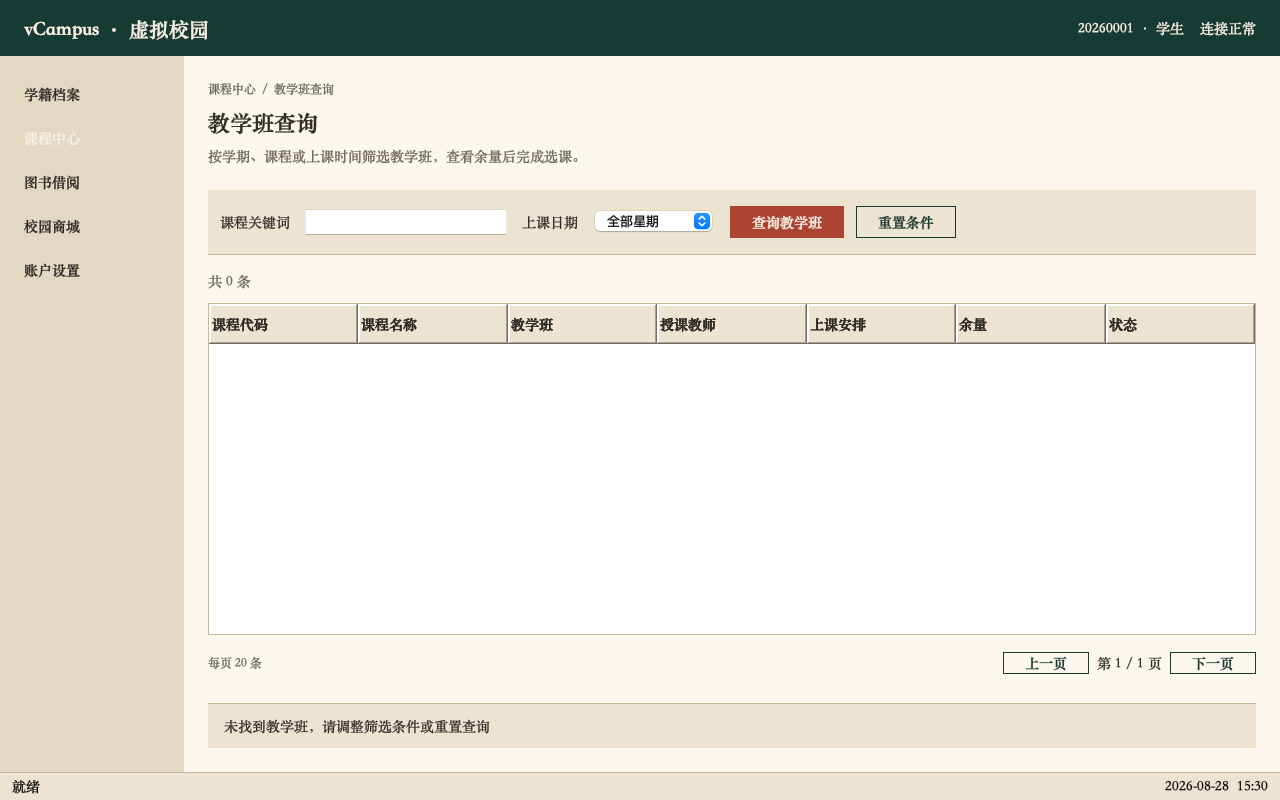
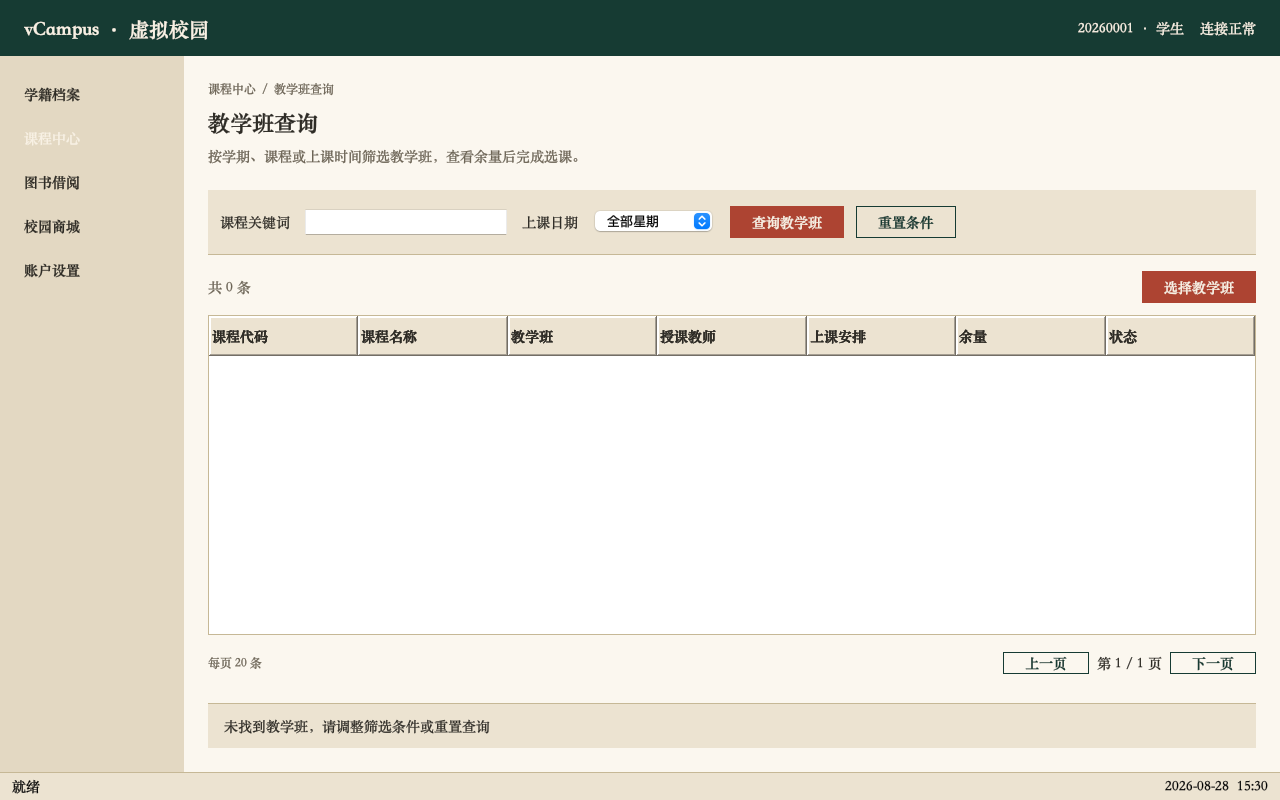
feat(course): connect enrollment UI to live client commands

Changed region(s): [[0.1562, 0.3125, 1.0, 0.4688]]

diff --git a/vcampus-client/src/main/java/edu/seu/vcampus/client/course/ui/OfferingSearchPanel.java b/vcampus-client/src/main/java/edu/seu/vcampus/client/course/ui/OfferingSearchPanel.java
@@ -6,6 +6,7 @@ import edu.seu.vcampus.client.core.ui.theme.UiSpacing;
 import edu.seu.vcampus.client.core.ui.theme.UiTypography;
 import edu.seu.vcampus.common.course.OfferingSearchQuery;
 import edu.seu.vcampus.common.course.OfferingSummary;
+import edu.seu.vcampus.common.course.EnrollCommand;
 import edu.seu.vcampus.client.course.service.CourseClientException;
 
 import javax.swing.BorderFactory;
@@ -24,6 +25,8 @@ import java.awt.BorderLayout;
 import java.awt.Dimension;
 import java.awt.FlowLayout;
 import java.util.concurrent.atomic.AtomicLong;
+import java.util.ArrayList;
+import java.util.List;
 
 /** Query-list page for available teaching offerings. */
 public final class OfferingSearchPanel extends AbstractCoursePanel {
@@ -35,6 +38,7 @@ public final class OfferingSearchPanel extends AbstractCoursePanel {
         public boolean isCellEditable(int row, int column) { return false; }
     };
     private final JTable results = table(new Object[0][0], new Object[0]);
+    private final List<OfferingSummary> visibleOfferings = new ArrayList<>();
     private final AtomicLong requestSequence = new AtomicLong();
 
     public OfferingSearchPanel(CourseUiGateway gateway) {
@@ -49,7 +53,13 @@ public final class OfferingSearchPanel extends AbstractCoursePanel {
         body.add(filters(), BorderLayout.NORTH);
         JPanel listing = new JPanel(new BorderLayout(0, UiSpacing.MD));
         listing.setOpaque(false);
-        listing.add(summary, BorderLayout.NORTH);
+        JPanel resultHeader = new JPanel(new BorderLayout());
+        resultHeader.setOpaque(false);
+        resultHeader.add(summary, BorderLayout.WEST);
+        JButton enroll = primary("选择教学班");
+        enroll.addActionListener(event -> enrollSelected(enroll));
+        resultHeader.add(enroll, BorderLayout.EAST);
+        listing.add(resultHeader, BorderLayout.NORTH);
         JScrollPane scroll = new JScrollPane(results);
         scroll.setBorder(BorderFactory.createLineBorder(UiColors.BORDER_DEFAULT));
         listing.add(scroll, BorderLayout.CENTER);
@@ -100,6 +110,7 @@ public final class OfferingSearchPanel extends AbstractCoursePanel {
                 .whenComplete((page, error) -> SwingUtilities.invokeLater(() -> {
                     if (request != requestSequence.get()) return;
                     model.setRowCount(0);
+                    visibleOfferings.clear();
                     if (error != null) {
                         Throwable cause = error;
                         while (cause instanceof java.util.concurrent.CompletionException && cause.getCause() != null) cause = cause.getCause();
@@ -116,7 +127,8 @@ public final class OfferingSearchPanel extends AbstractCoursePanel {
                         return;
                     }
                     for (OfferingSummary row : page.items()) {
-                        String time = row.schedules().isEmpty() ? "待安排" : row.schedules().getFirst().dayOfWeek()
+                        visibleOfferings.add(row);
+                        String time = row.schedules().isEmpty() ? "待安排" : dayName(row.schedules().getFirst().dayOfWeek())
                                 + " 第" + row.schedules().getFirst().startPeriod() + "–" + row.schedules().getFirst().endPeriod() + "节";
                         model.addRow(new Object[]{row.courseCode(), row.courseName(), row.className(), row.teacherUserId(), time,
                                 (row.capacity() - row.enrolledCount()) + " / " + row.capacity(), "可选"});
@@ -125,5 +137,53 @@ public final class OfferingSearchPanel extends AbstractCoursePanel {
                     showState(page.items().isEmpty() ? ViewState.EMPTY : ViewState.NORMAL,
                             page.items().isEmpty() ? "未找到教学班，请调整筛选条件或重置查询" : "");
                 }));
+    }
+
+    private void enrollSelected(JButton button) {
+        int selected = results.getSelectedRow();
+        if (selected < 0 || selected >= visibleOfferings.size()) {
+            showState(ViewState.ERROR, "请先在结果表中选择一个教学班");
+            return;
+        }
+        OfferingSummary offering = visibleOfferings.get(results.convertRowIndexToModel(selected));
+        button.setEnabled(false);
+        button.setText("正在选课…");
+        showState(ViewState.SUBMITTING, "正在提交选课，请勿重复操作");
+        gateway.enroll(new EnrollCommand(offering.offeringId())).whenComplete((enrollment, error) ->
+                SwingUtilities.invokeLater(() -> {
+                    button.setEnabled(true);
+                    button.setText("选择教学班");
+                    if (error == null) {
+                        int remaining = Math.max(0, offering.capacity() - offering.enrolledCount() - 1);
+                        model.setValueAt(remaining + " / " + offering.capacity(), selected, 5);
+                        showState(ViewState.NORMAL, "课程已选上，可在“我的选课”和“我的课表”查看");
+                        return;
+                    }
+                    Throwable cause = error;
+                    while (cause instanceof java.util.concurrent.CompletionException && cause.getCause() != null) cause = cause.getCause();
+                    if (cause instanceof CourseClientException failure) {
+                        switch (failure.code()) {
+                            case "COURSE_OFFERING_FULL" -> showState(ViewState.ERROR, "教学班容量已满，请选择其他教学班");
+                            case "COURSE_SCHEDULE_CONFLICT" -> showState(ViewState.ERROR, "所选教学班与当前课表冲突，请调整选择");
+                            case "COMMON_CONCURRENT_MODIFICATION" -> showState(ViewState.CONFLICT, "教学班信息已变化，请刷新后重试");
+                            default -> showState(ViewState.ERROR, failure.getMessage());
+                        }
+                    } else {
+                        showState(ViewState.DISCONNECTED, "选课请求未送达，请检查连接后重试");
+                    }
+                }));
+    }
+
+    private static String dayName(String day) {
+        return switch (day) {
+            case "MONDAY" -> "星期一";
+            case "TUESDAY" -> "星期二";
+            case "WEDNESDAY" -> "星期三";
+            case "THURSDAY" -> "星期四";
+            case "FRIDAY" -> "星期五";
+            case "SATURDAY" -> "星期六";
+            case "SUNDAY" -> "星期日";
+            default -> day;
+        };
     }
 }

diff --git a/vcampus-client/src/test/java/edu/seu/vcampus/client/course/ui/CourseUiTest.java b/vcampus-client/src/test/java/edu/seu/vcampus/client/course/ui/CourseUiTest.java
@@ -5,6 +5,7 @@ import edu.seu.vcampus.client.core.ui.theme.UiDimensions;
 import edu.seu.vcampus.client.core.ui.theme.UiSpacing;
 import edu.seu.vcampus.client.course.service.CourseClientException;
 import edu.seu.vcampus.common.course.EnrollmentView;
+import edu.seu.vcampus.common.course.EnrollCommand;
 import edu.seu.vcampus.common.course.OfferingSearchQuery;
 import edu.seu.vcampus.common.course.OfferingSummary;
 import edu.seu.vcampus.common.course.ScheduleItem;
@@ -22,7 +23,9 @@ import java.awt.Component;
 import java.awt.Container;
 import java.util.ArrayList;
 import java.util.List;
+import java.time.Instant;
 import java.util.concurrent.CompletableFuture;
+import java.util.concurrent.atomic.AtomicReference;
 
 import static org.assertj.core.api.Assertions.assertThat;
 
@@ -41,6 +44,7 @@ class CourseUiTest {
         assertThat(table.getRowHeight()).isEqualTo(UiDimensions.TABLE_ROW_HEIGHT);
         assertThat(table.getShowVerticalLines()).isFalse();
         assertThat(table.getTableHeader().getBackground()).isEqualTo(UiColors.BACKGROUND_SUBTLE);
+        assertThat(table.getValueAt(0, 4).toString()).startsWith("星期一");
         assertThat(descendants(panel)).anyMatch(JScrollPane.class::isInstance);
     }
 
@@ -95,11 +99,61 @@ class CourseUiTest {
         assertThat(labels(disconnected)).noneMatch(text -> text.contains("socket details"));
     }
 
+    @Test
+    void selectedOfferingCanBeEnrolledAndSuccessRemainsVisible() throws Exception {
+        AtomicReference<EnrollCommand> submitted = new AtomicReference<>();
+        CourseUiGateway gateway = new CourseUiGateway() {
+            public CompletableFuture<PageResult<OfferingSummary>> searchOfferings(OfferingSearchQuery query) {
+                return CourseUiGateway.preview().searchOfferings(query);
+            }
+            public CompletableFuture<List<EnrollmentView>> currentEnrollments() { return CompletableFuture.completedFuture(List.of()); }
+            public CompletableFuture<List<ScheduleItem>> currentSchedule() { return CompletableFuture.completedFuture(List.of()); }
+            @Override public CompletableFuture<EnrollmentView> enroll(EnrollCommand command) {
+                submitted.set(command);
+                return CompletableFuture.completedFuture(new EnrollmentView(
+                        "e1", command.offeringId(), "s1", "NORMAL", "ACTIVE", Instant.now(), null, 0));
+            }
+        };
+        OfferingSearchPanel panel = onEdt(() -> new OfferingSearchPanel(gateway));
+        SwingUtilities.invokeAndWait(() -> { });
+        JTable table = descendants(panel).stream().filter(JTable.class::isInstance).map(JTable.class::cast).findFirst().orElseThrow();
+        JButton enroll = descendants(panel).stream().filter(JButton.class::isInstance).map(JButton.class::cast)
+                .filter(button -> "选择教学班".equals(button.getText())).findFirst().orElseThrow();
+
+        SwingUtilities.invokeAndWait(() -> { table.setRowSelectionInterval(0, 0); enroll.doClick(); });
+        SwingUtilities.invokeAndWait(() -> { });
+
+        assertThat(submitted.get().offeringId()).isEqualTo("o1");
+        assertThat(labels(panel)).anyMatch(text -> text.contains("课程已选上"));
+    }
+
+    @Test
+    void myEnrollmentsLoadsRealGatewayRowsAsynchronously() throws Exception {
+        CourseUiGateway base = CourseUiGateway.preview();
+        CourseUiGateway gateway = new CourseUiGateway() {
+            public CompletableFuture<PageResult<OfferingSummary>> searchOfferings(OfferingSearchQuery query) { return base.searchOfferings(query); }
+            public CompletableFuture<List<EnrollmentView>> currentEnrollments() {
+                return CompletableFuture.completedFuture(List.of(new EnrollmentView(
+                        "e1", "offering-real-1", "student-real", "NORMAL", "ACTIVE", Instant.parse("2026-08-28T08:00:00Z"), null, 2)));
+            }
+            public CompletableFuture<List<ScheduleItem>> currentSchedule() { return CompletableFuture.completedFuture(List.of()); }
+            public CompletableFuture<EnrollmentView> enroll(EnrollCommand command) { return base.enroll(command); }
+        };
+        MyEnrollmentPanel panel = onEdt(() -> new MyEnrollmentPanel(gateway));
+        SwingUtilities.invokeAndWait(() -> { });
+        JTable table = descendants(panel).stream().filter(JTable.class::isInstance).map(JTable.class::cast).findFirst().orElseThrow();
+
+        assertThat(table.getRowCount()).isEqualTo(1);
+        assertThat(table.getValueAt(0, 0)).isEqualTo("offering-real-1");
+        assertThat(panel.viewState()).isEqualTo(AbstractCoursePanel.ViewState.NORMAL);
+    }
+
     private static CourseUiGateway gateway(CompletableFuture<PageResult<OfferingSummary>> offerings) {
         return new CourseUiGateway() {
             public CompletableFuture<PageResult<OfferingSummary>> searchOfferings(OfferingSearchQuery query) { return offerings; }
             public CompletableFuture<List<EnrollmentView>> currentEnrollments() { return CompletableFuture.completedFuture(List.of()); }
             public CompletableFuture<List<ScheduleItem>> currentSchedule() { return CompletableFuture.completedFuture(List.of()); }
+            public CompletableFuture<EnrollmentView> enroll(EnrollCommand command) { return CompletableFuture.failedFuture(new UnsupportedOperationException()); }
         };
     }
 

diff --git a/vcampus-client/src/main/java/edu/seu/vcampus/client/course/ui/MyEnrollmentPanel.java b/vcampus-client/src/main/java/edu/seu/vcampus/client/course/ui/MyEnrollmentPanel.java
@@ -1,4 +1,89 @@
 package edu.seu.vcampus.client.course.ui;
-public final class MyEnrollmentPanel extends SimpleCourseTablePanel {
- public MyEnrollmentPanel(CourseUiGateway gateway){super("我的选课","查看当前学期已选课程与选课类型。","刷新选课",new Object[]{"课程代码","课程名称","教学班","类型","状态","选课时间"},new Object[][]{{"MATH101","高等数学","01班","正常选课","有效","2026-08-25"},{"CS201","数据结构","02班","正常选课","有效","2026-08-25"}});}
+
+import edu.seu.vcampus.client.core.ui.theme.UiColors;
+import edu.seu.vcampus.client.core.ui.theme.UiSpacing;
+import edu.seu.vcampus.client.core.ui.theme.UiTypography;
+import edu.seu.vcampus.common.course.EnrollmentView;
+
+import javax.swing.BorderFactory;
+import javax.swing.JButton;
+import javax.swing.JLabel;
+import javax.swing.JPanel;
+import javax.swing.JScrollPane;
+import javax.swing.JTable;
+import javax.swing.SwingUtilities;
+import javax.swing.table.DefaultTableModel;
+import java.awt.BorderLayout;
+import java.time.ZoneId;
+import java.time.format.DateTimeFormatter;
+import java.util.concurrent.atomic.AtomicLong;
+
+/** Query-list page backed by COURSE_GET_MY_ENROLLMENTS. */
+public final class MyEnrollmentPanel extends AbstractCoursePanel {
+    private static final DateTimeFormatter TIME = DateTimeFormatter.ofPattern("yyyy-MM-dd HH:mm")
+            .withZone(ZoneId.systemDefault());
+    private final CourseUiGateway gateway;
+    private final JLabel summary = label("共 0 条", UiTypography.BODY, UiColors.TEXT_SECONDARY);
+    private final DefaultTableModel model = new DefaultTableModel(
+            new Object[]{"教学班编号", "选课类型", "状态", "选课时间", "记录版本"}, 0) {
+        public boolean isCellEditable(int row, int column) { return false; }
+    };
+    private final AtomicLong requestSequence = new AtomicLong();
+
+    public MyEnrollmentPanel(CourseUiGateway gateway) {
+        super("我的选课", "查看当前学期已选教学班、选课类型和记录状态。");
+        this.gateway = gateway;
+        JPanel toolbar = new JPanel(new BorderLayout());
+        toolbar.setBackground(UiColors.BACKGROUND_SUBTLE);
+        toolbar.setBorder(BorderFactory.createCompoundBorder(
+                BorderFactory.createMatteBorder(0, 0, 1, 0, UiColors.BORDER_DEFAULT),
+                BorderFactory.createEmptyBorder(UiSpacing.LG, UiSpacing.LG, UiSpacing.LG, UiSpacing.LG)));
+        toolbar.add(label("当前学期的有效及历史选课记录", UiTypography.BODY, UiColors.TEXT_PRIMARY), BorderLayout.WEST);
+        JButton refresh = primary("刷新选课");
+        refresh.addActionListener(event -> refresh());
+        toolbar.add(refresh, BorderLayout.EAST);
+        body.add(toolbar, BorderLayout.NORTH);
+
+        JTable table = table(new Object[0][0], new Object[0]);
+        table.setModel(model);
+        table.getTableHeader().setBackground(UiColors.BACKGROUND_SUBTLE);
+        table.getAccessibleContext().setAccessibleName("我的选课记录");
+        JPanel listing = new JPanel(new BorderLayout(0, UiSpacing.MD));
+        listing.setOpaque(false);
+        listing.add(summary, BorderLayout.NORTH);
+        JScrollPane scroll = new JScrollPane(table);
+        scroll.setBorder(BorderFactory.createLineBorder(UiColors.BORDER_DEFAULT));
+        listing.add(scroll, BorderLayout.CENTER);
+        body.add(listing, BorderLayout.CENTER);
+        refresh();
+    }
+
+    public void refresh() {
+        long request = requestSequence.incrementAndGet();
+        showState(ViewState.LOADING, "正在加载我的选课，请稍候");
+        gateway.currentEnrollments().whenComplete((enrollments, error) -> SwingUtilities.invokeLater(() -> {
+            if (request != requestSequence.get()) return;
+            model.setRowCount(0);
+            if (error != null) {
+                showState(ViewState.DISCONNECTED, "无法加载我的选课，请检查连接后重试");
+                return;
+            }
+            for (EnrollmentView enrollment : enrollments) {
+                model.addRow(new Object[]{enrollment.offeringId(), typeName(enrollment.enrollmentType()),
+                        statusName(enrollment.enrollmentStatus()), TIME.format(enrollment.enrolledAt()),
+                        "v" + enrollment.rowVersion()});
+            }
+            summary.setText("共 " + enrollments.size() + " 条");
+            showState(enrollments.isEmpty() ? ViewState.EMPTY : ViewState.NORMAL,
+                    enrollments.isEmpty() ? "当前学期还没有选课，可前往“教学班查询”选择课程" : "");
+        }));
+    }
+
+    private static String typeName(String type) {
+        return "RETAKE".equals(type) ? "重修" : "NORMAL".equals(type) ? "正常选课" : type;
+    }
+
+    private static String statusName(String status) {
+        return "ACTIVE".equals(status) ? "有效" : "DROPPED".equals(status) ? "已退选" : status;
+    }
 }

diff --git a/vcampus-client/src/main/java/edu/seu/vcampus/client/course/ui/CourseUiGateway.java b/vcampus-client/src/main/java/edu/seu/vcampus/client/course/ui/CourseUiGateway.java
@@ -1,6 +1,7 @@
 package edu.seu.vcampus.client.course.ui;
 
 import edu.seu.vcampus.common.course.EnrollmentView;
+import edu.seu.vcampus.common.course.EnrollCommand;
 import edu.seu.vcampus.common.course.OfferingSearchQuery;
 import edu.seu.vcampus.common.course.OfferingSummary;
 import edu.seu.vcampus.common.course.ScheduleItem;
@@ -14,6 +15,7 @@ public interface CourseUiGateway {
     CompletableFuture<PageResult<OfferingSummary>> searchOfferings(OfferingSearchQuery query);
     CompletableFuture<List<EnrollmentView>> currentEnrollments();
     CompletableFuture<List<ScheduleItem>> currentSchedule();
+    CompletableFuture<EnrollmentView> enroll(EnrollCommand command);
 
     static CourseUiGateway preview() {
         List<ScheduleItem> schedule = List.of(
@@ -32,6 +34,11 @@ public interface CourseUiGateway {
             }
             public CompletableFuture<List<ScheduleItem>> currentSchedule() {
                 return CompletableFuture.completedFuture(schedule);
+            }
+            public CompletableFuture<EnrollmentView> enroll(EnrollCommand command) {
+                return CompletableFuture.completedFuture(new EnrollmentView(
+                        "preview-enrollment", command.offeringId(), "preview-student", "NORMAL", "ACTIVE",
+                        java.time.Instant.now(), null, 0));
             }
         };
     }

diff --git a/vcampus-client/src/test/java/edu/seu/vcampus/client/course/ui/CourseUiScreenshotGenerator.java b/vcampus-client/src/test/java/edu/seu/vcampus/client/course/ui/CourseUiScreenshotGenerator.java
@@ -7,6 +7,7 @@ import edu.seu.vcampus.client.core.ui.theme.UiThemeInstaller;
 import edu.seu.vcampus.client.core.ui.theme.UiTypography;
 import edu.seu.vcampus.client.course.service.CourseClientException;
 import edu.seu.vcampus.common.course.EnrollmentView;
+import edu.seu.vcampus.common.course.EnrollCommand;
 import edu.seu.vcampus.common.course.OfferingSearchQuery;
 import edu.seu.vcampus.common.course.OfferingSummary;
 import edu.seu.vcampus.common.course.ScheduleItem;
@@ -72,6 +73,7 @@ public final class CourseUiScreenshotGenerator {
             public CompletableFuture<PageResult<OfferingSummary>> searchOfferings(OfferingSearchQuery query) { return offerings; }
             public CompletableFuture<List<EnrollmentView>> currentEnrollments() { return CompletableFuture.completedFuture(List.of()); }
             public CompletableFuture<List<ScheduleItem>> currentSchedule() { return CompletableFuture.completedFuture(List.of()); }
+            public CompletableFuture<EnrollmentView> enroll(EnrollCommand command) { return CompletableFuture.failedFuture(new UnsupportedOperationException()); }
         };
     }
 

diff --git a/vcampus-client/src/main/java/edu/seu/vcampus/client/course/ui/CourseClientGateway.java b/vcampus-client/src/main/java/edu/seu/vcampus/client/course/ui/CourseClientGateway.java
@@ -2,6 +2,7 @@ package edu.seu.vcampus.client.course.ui;
 
 import edu.seu.vcampus.client.course.service.CourseClientService;
 import edu.seu.vcampus.common.course.EnrollmentView;
+import edu.seu.vcampus.common.course.EnrollCommand;
 import edu.seu.vcampus.common.course.OfferingSearchQuery;
 import edu.seu.vcampus.common.course.OfferingSummary;
 import edu.seu.vcampus.common.course.ScheduleItem;
@@ -29,5 +30,9 @@ final class CourseClientGateway implements CourseUiGateway {
 
     public CompletableFuture<List<ScheduleItem>> currentSchedule() {
         return client.getCurrentSchedule();
+    }
+
+    public CompletableFuture<EnrollmentView> enroll(EnrollCommand command) {
+        return client.enroll(command);
     }
 }
